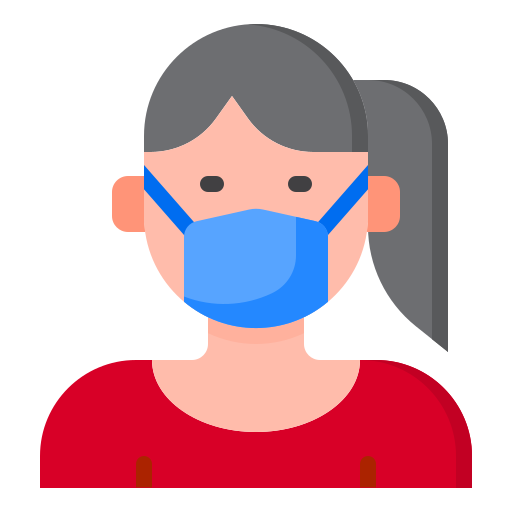
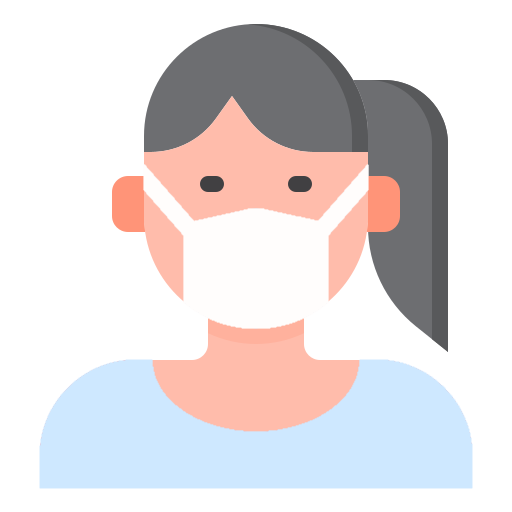
.

Changed region(s): [[0.0625, 0.6875, 0.9375, 0.9688], [0.2812, 0.3125, 0.7188, 0.6562]]

diff --git a/tasarimcalismasi2/src/components/Profile/ProfileComponent.vue b/tasarimcalismasi2/src/components/Profile/ProfileComponent.vue
@@ -2,7 +2,7 @@
   <div class="profile-component">
       <div class="profile-info col-3">
         <div class="card-body">
-          <img src="@/assets/malephoto.png" width="150" height="150">
+          <img src="@/assets/femalephoto.png" width="150" height="150">
           <p style="font-weight: 500;">Harun Reşit KARAHAN</p>
           <p style="color: #757575;
                     font-size: 13px;
@@ -80,16 +80,12 @@
             <th>Doktor</th>
             <th>Bölüm</th>
             <th>Randevu Tarihi</th>
-            <th>Country</th>
+            <th>Hastane</th>
           </tr>
           <tr>
             <td><div style="display: flex;
                         align-items: center;
-                        width: 100%;
-                        padding: 20px 5px;
-                        border: 0 solid #f0f0f0;
-                        border-top-width: 1px;
-                        border-bottom-width: 1px;">
+                        width: 100%;">
               <div>
                 <img src="@/assets/maledoctor.png" width="55" height="55" style="border-radius: 100%;">
               </div>
@@ -97,9 +93,39 @@
                 <p style="margin-left: 16px;font-weight: 500;font-size: 0.9rem;">Enes Demir</p>
               </div>
             </div></td>
-            <td>Maria Anders</td>
-            <td>Germany</td>
-            <td>Germany</td>
+            <td><div>Cildiye</div></td>
+            <td><div>9 Aralık 2021 10:30</div> </td>
+            <td><div>Şevket Yılmaz Devlet Hastanesi</div></td>
+          </tr>
+          <tr>
+            <td><div style="display: flex;
+                        align-items: center;
+                        width: 100%;">
+              <div>
+                <img src="@/assets/femaledoctor.png" width="55" height="55" style="border-radius: 100%;">
+              </div>
+              <div>
+                <p style="margin-left: 16px;font-weight: 500;font-size: 0.9rem;">Fatma Aksu</p>
+              </div>
+            </div></td>
+            <td><div>Dahiliye</div></td>
+            <td><div>9 Aralık 2021 10:30</div> </td>
+            <td><div>Şevket Yılmaz Devlet Hastanesi</div></td>
+          </tr>
+          <tr>
+            <td><div style="display: flex;
+                        align-items: center;
+                        width: 100%;">
+              <div>
+                <img src="@/assets/maledoctor.png" width="55" height="55" style="border-radius: 100%;">
+              </div>
+              <div>
+                <p style="margin-left: 16px;font-weight: 500;font-size: 0.9rem;">Mehmet Akif Çeliktürk</p>
+              </div>
+            </div></td>
+            <td><div>Göz Hastalıkları</div></td>
+            <td><div>9 Aralık 2021 10:30</div> </td>
+            <td><div>Şevket Yılmaz Devlet Hastanesi</div></td>
           </tr>
         </table>
       </div>

diff --git a/tasarimcalismasi2/src/components/Homepage/Navbar.vue b/tasarimcalismasi2/src/components/Homepage/Navbar.vue
@@ -8,14 +8,17 @@
       <a href="#">Randevu al</a>
     </div> -->
     <template v-if="issignin != 'Giriş Başarılı'">
-      <div @click="loginPage" class="log-in">
-        <a href="#">KAYIT OL / GİRİŞ YAP</a>
+      <div @click="loginPage" class="log-in" :style="issignin === undefined ? '' : 'display: none'">
+          <a href="#">KAYIT OL / GİRİŞ YAP</a>
       </div>
     </template>
     <template v-if="issignin == 'Giriş Başarılı'">
-      <div style="margin-right: 30px;display:flex;justify-content: center;width: 5%;">
+      <div class="log-in">
+          <a href="#">PROFİLE</a>
+          <a @click="signout" href="#" style="border-left-width: 0;">Çıkış</a>
+      </div>
+      <!-- <div style="margin-right: 30px;display:flex;justify-content: center;width: 5%;">
        <a href="#" class="dropdown">
-              <!-- Profile ulaşmak için profile butonu oluşturuldu -->
               <b-icon-person id="btn" style="border: 1px solid rgb(71, 70, 71);color: rgb(71, 70, 71);border-radius: 100%;height: 40px;width:40px;padding: 3px;" class="person"/>
               <b-icon-caret-down-fill style="color: rgb(71, 70, 71);height: 10px;width:10px;vertical-align: middle !important;" class="chevron-down"/>
               <div class="dropdown-content" align="left">
@@ -23,7 +26,7 @@
                 <a @click="signout" href="#" :style="issignin === 'Giriş Başarılı' ? '' : 'display: none'">Çıkış</a>
               </div>
             </a>
-      </div>
+      </div> -->
     </template>
   </div>
 </template>

diff --git a/tasarimcalismasi2/src/css/Profile_css/profile-component.css b/tasarimcalismasi2/src/css/Profile_css/profile-component.css
@@ -5,7 +5,7 @@
 .profile .profile-component .profile-info {
     display: flex;
     justify-content: center;
-    padding: 0 30px 15px 0;
+    padding: 0 30px 0 0;
 }
 .profile .profile-component .profile-info .card-body {
     display: flex;
@@ -20,6 +20,7 @@
     align-items: center;
     padding: 0 15px;
     border: 1px solid #f0f0f0;
+    overflow: auto;
 }
 table {
     text-align: center;
@@ -31,4 +32,11 @@ table tr th {
 table tr td {
     text-align: left;
     padding: 15px;
+    border: 0 solid #f0f0f0;
+    border-top-width: 1px;
+    border-bottom-width: 1px;
+    cursor: pointer;
+}
+table tr:hover {
+    background-color: rgba(132, 168, 235, 0.096);
 }

diff --git a/tasarimcalismasi2/src/css/Profile_css/profile.css b/tasarimcalismasi2/src/css/Profile_css/profile.css
@@ -3,16 +3,17 @@
 }
 .profile .sub-navbar p {
     padding: 30px 35px;
+    background-color: rgb(132, 168, 235);
 }
 .profile .site-footer {
-    background-color: #3781c2;
+    background-color: rgb(132, 168, 235);
 }
 .profile .navbar .log-in a {
-    color: #3781c2;
-    border: 2px solid #3781c2;
+    color: rgb(132, 168, 235);
+    border: 2px solid rgb(132, 168, 235);
     padding: 15px;
 }
 .profile .navbar .log-in a:hover {
-    background: #3781c2; /* #66b7cb */
+    background: rgb(132, 168, 235); /* #66b7cb */
     color: white;
 }
